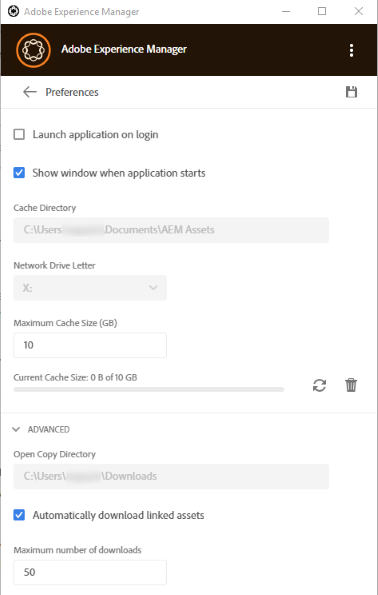
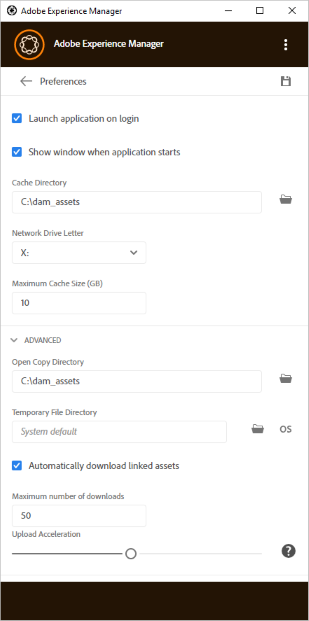
Minor edits for 2.0.2 release and screenshot change

diff --git a/help/install-upgrade.md b/help/install-upgrade.md
@@ -14,23 +14,26 @@ snippet: y
 
 # Install Adobe Experience Manager desktop app {#install-app-v2}
 
-Using the Adobe Experience Manager desktop app, the assets within Experience Manager are easily accessible on your local desktop and can be used in any desktop applications. Assets can be previewed, opened in native desktop applications, revealed in Mac Finder or Windows Explorer for placing in other documents, and changed locally – the changes are saved back to Experience Manager when you upload and a new version is created in the repository.
+Using the Adobe Experience Manager desktop app, the assets within Experience Manager are easily available on your local desktop and can be used in any native desktop applications. Assets can be previewed, opened in native desktop applications, revealed in Mac Finder or Windows Explorer for placing in other documents, and changed locally – the changes are saved back to Experience Manager when you upload and a new version is created in the repository.
 
-Such an integration allows various roles in the organization to manage the assets centrally in Adobe Experience Manager Assets and to access them in any native desktop applications (including 3rd-party as well as Adobe's Creative Cloud), while making it easy to adhere to the various standards including branding.
+Such an integration allows various roles in the organization to,
+
+* Manage the assets centrally in Experience Manager Assets.
+* Access the assets in any native desktop applications, including third-party applications and in Adobe Creative Cloud. While doing so, users can easily adhere to the various standards including branding.
 
 To use Experience Manager desktop app,
 
-* Ensure that your Experience Manager version is supported by Experience Manager desktop app. See the [system requirements](#tech-specs-v2) below.
-* Download and install the application. See [installing](#install-v2) below.
+* Ensure that your Experience Manager version is supported by Experience Manager desktop app. See the [system requirements](release-notes.md#system-requirements-and-prerequisites-v2) below.
+* Download and install the application. See [install desktop app](#install-v2) below.
 * Test the connection using a few assets. See [how to browse and search for assets](using.md#browse-search-preview-assets).
 
-## System requirements prerequisites, and download links {#tech-specs-v2}
+## System requirements, prerequisites, and download links {#tech-specs-v2}
 
 For detailed information, see the [Experience Manager desktop app release notes](release-notes.md).
 
 ## Upgrade from app v1.x to app v2 {#upgrade-from-previous-version}
 
-If you are an existing user of the app, then understand the differences and similarities between the previous and the latest version of the app. Also, follow the below guidelines, to transition from v1.x to the latest version.
+If you are an existing user of the app, then understand the differences and similarities between the previous and the latest version of the app. Also, follow these guidelines, to transition from v1.x to the latest version.
 
 >[!NOTE]
 >
@@ -47,11 +50,11 @@ To upgrade from v1.x to the latest version of the app, follow these instructions
 
 To install the desktop app, follow these steps. Uninstall any existing Adobe Experience Manager desktop app v1.x before installing the latest app. For more info, see above.
 
-1. Keep the URL and credentials of your AEM deployment handy.
-1. Skip this step if you are using AEM as a Cloud Service, AEM 6.4.4 and later or AEM 6.5.0 or later. Ensure that your AEM setup meets the compatibility requirements mentioned in the release notes. If necessary, download the applicable [compatibility package](https://www.adobeaemcloud.com/content/marketplace/marketplaceProxy.html?packagePath=/content/companies/public/adobe/packages/cq640/featurepack/adobe-asset-link-support) and install it using the AEM Package Manager as an AEM administrator. To install a package, see [How to work with Packages](https://helpx.adobe.com/experience-manager/6-5/sites/administering/using/package-manager.html).
+1. Keep the URL and credentials of your Experience Manager deployment handy.
+1. Skip this step if you are using Experience Manager as a Cloud Service, Experience Manager 6.4.4 or later, or Experience Manager 6.5.0 or later. Ensure that your Experience Manager setup meets the compatibility requirements mentioned in the [release notes](release-notes.md). If necessary, download the applicable [compatibility package](https://www.adobeaemcloud.com/content/marketplace/marketplaceProxy.html?packagePath=/content/companies/public/adobe/packages/cq640/featurepack/adobe-asset-link-support) and install it using the Experience Manager Package Manager as an Experience Manager administrator. To install a package, see [How to work with Packages](https://helpx.adobe.com/experience-manager/6-5/sites/administering/using/package-manager.html).
 1. Execute the installer binary and follow the onscreen instructions to install.
 1. On Windows, the installer may prompt to install `Visual Studio C++ Redistributable 2015`. Follow on-screen instructions to install it. If the installation fails then install it manually. Download the installer from [here](https://www.microsoft.com/en-us/download/details.aspx?id=52685) and install both `vc_redist.x64.exe` and `vc_redist.x86.exe` files. Re-run the AEM desktop app installer.
-1. Restart the machine as prompted. Launch the desktop app to configure it.
+1. Restart the machine as prompted. Launch and configure the desktop app.
 1. To connect the app with an AEM repository, click the app icon in the tray to launch the app. Provide the address of the AEM instance. Click **[!UICONTROL Connect]** and provide the credentials.
 
    ![Connection screen of desktop app to input server address](assets/connect_da2.png "Connection screen to input server address")
@@ -64,7 +67,7 @@ To install the desktop app, follow these steps. Uninstall any existing Adobe Exp
 
    ![Upon login the app displays the DAM contents](assets/firstview_da2.png "Upon login the app displays the DAM contents")
 
-1. (AEM 6.5.1 or above) If you are using desktop app with AEM 6.5.1 or later, upgrade S3 or Azure connector to version 1.10.4 or later. See [Azure connector](https://helpx.adobe.com/experience-manager/6-5/sites/deploying/using/data-store-config.html#AzureDataStore) or [S3 connector](https://helpx.adobe.com/experience-manager/6-5/sites/deploying/using/data-store-config.html#AmazonS3DataStore).
+1. (Experience Manager 6.5.1 or later) If you are using desktop app with Experience Manager 6.5.1 or later, upgrade S3 or Azure connector to version 1.10.4 or later. See [Azure connector](https://helpx.adobe.com/experience-manager/6-5/sites/deploying/using/data-store-config.html#AzureDataStore) or [S3 connector](https://helpx.adobe.com/experience-manager/6-5/sites/deploying/using/data-store-config.html#AmazonS3DataStore).
 
    If you are an Adobe Managed Services (AMS) customer, contact Adobe Customer Care.
 
@@ -80,7 +83,7 @@ To change preferences, click ![More options icon](assets/do-not-localize/more_op
 * **[!UICONTROL Current cache size]**: Storage size of the locally downloaded assets. The information is displayed only after assets are downloaded using the app.
 * **[!UICONTROL Automatically download linked assets]**: The assets that are placed in the supported native Creative Cloud apps are fetched automatically if you download the original file.
 * **[!UICONTROL Maximum number of downloads]**: When downloading assets for the first time (via Reveal, Open, Edit, Download, or similar option), the assets are downloaded only if the batch contains less than this number. Default value is 50. Do not change if you are unsure. Increasing the value can lead to longer wait times and decreasing the value may not allow you to download the necessary assets or folders in one go.
-* **[!UICONTROL Upload Acceleration]**: When uploading assets, the application can use concurrent uploads to improve upload speed. You can increase the concurrency of the upload by moving the slider to the right side. The slider on the left-hand side means no concurrency (single-threaded upload), the middle corresponds to 10 concurrent threads, and the maximum setting to 20 concurrent threads. Please note that increasing concurrency leads to more resource consuption of the local desktop machine.
+* **[!UICONTROL Upload Acceleration]**: When uploading assets, the application can use concurrent uploads to improve upload speed. You can increase the concurrency of the upload by moving the slider to the right. The slider on the far left-hand side means no concurrency (single-threaded upload), the middle position corresponds to 10 concurrent threads, and the maximum limit on far right-hand side corresponds to 20 concurrent threads. A higher concurrency limit requires more resource consumption of the local machine's processor.
 
 To update the unavailable preferences, log out of the AEM server. After updating the preferences, click ![Save preferences](assets/do-not-localize/save_preferences_da2.png) to save the changes.
 

diff --git a/help/troubleshoot.md b/help/troubleshoot.md
@@ -54,15 +54,15 @@ To troubleshoot, you can enable the debug mode and get more information in the l
 
 ### Location of log files {#check-log-files-v2}
 
-You can find the log files for AEM desktop app at the following locations. When uploading many assets, if some files fail to upload, see `backend.log` file at the above location to identify the failed uploads.
+You can find the log files for AEM desktop app at the following locations. When uploading many assets, if some files fail to upload, see `backend.log` file to identify the failed uploads.
 
-* On Windows: `%LocalAppData%\Adobe\AssetsCompanion\Logs`
+* Path on Windows: `%LocalAppData%\Adobe\AssetsCompanion\Logs`
 
-* On Mac: `~/Library/Logs/Adobe\ Experience\ Manager\ Desktop`
+* Path on Mac: `~/Library/Logs/Adobe\ Experience\ Manager\ Desktop`
 
 >[!NOTE]
 >
->When working with Adobe Customer Care on a support request/ticket, you may be asked to share the log files to help the support team understand the issue. Archive the entire `Logs` folder and share it with the customer care.
+>When working with Adobe Customer Care on a support request/ticket, you may be asked to share the log files to help the Customer Care team understand the issue. Archive the entire `Logs` folder and share it with your Customer Care contact.
 
 ### Clear cache {#clear-cache-v2}
 

diff --git a/help/using.md b/help/using.md
@@ -183,7 +183,7 @@ To view the list of assets transferred in a given session, click **[!UICONTROL V
 
 ![List of transferred assets in a particular session](assets/assets_transfered_da2.png "List of transferred assets in a particular session")
 
-You can control the upload concurrency (acceleration) in **[!UICONTROL Preferences]** > **[!UICONTROL Upload acceleration]** setting. More concurrency typically gives faster uploads, but in certain cases can lead to excessive usage of local desktop's CPU and resources.
+You can control the upload concurrency (acceleration) in **[!UICONTROL Preferences]** > **[!UICONTROL Upload acceleration]** setting. More concurrency typically gives faster uploads, but can be resource-intensive, consuming more processing power of the local machine. If you experience a slow system, re-attempt uploads using a lower value of concurrency.
 
 >[!NOTE]
 >
